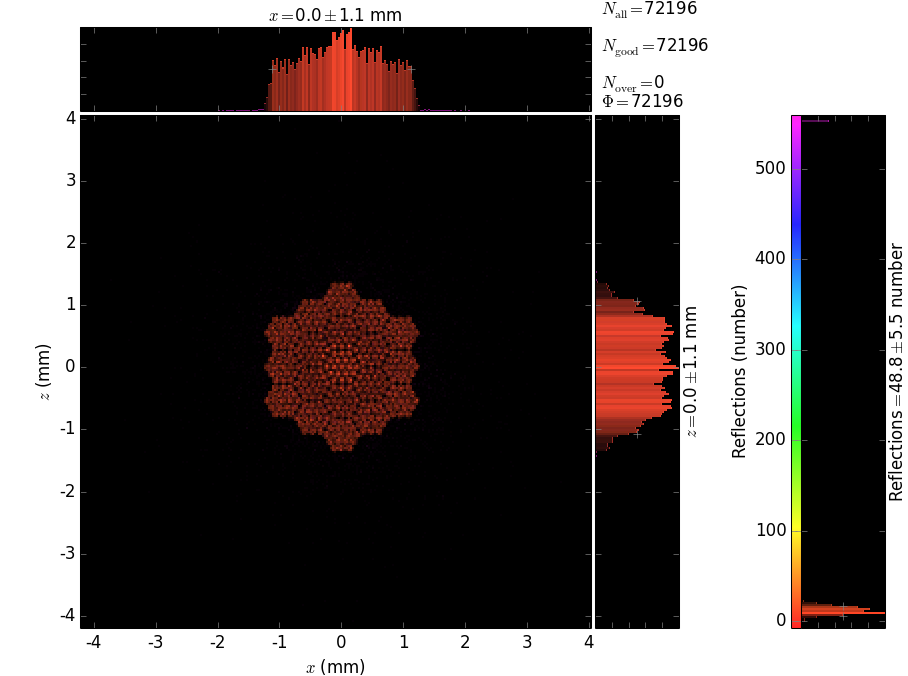
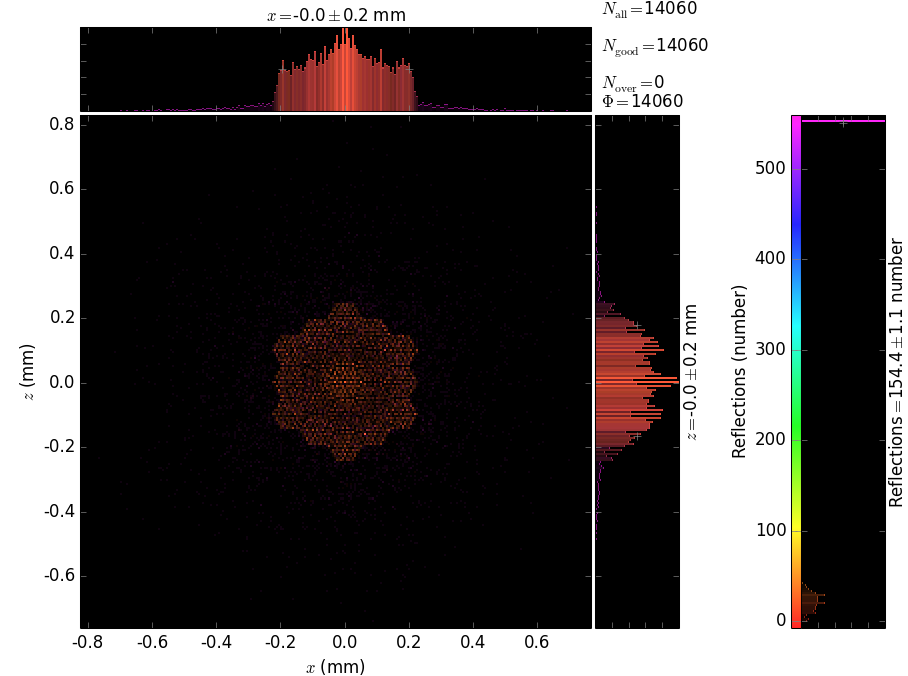
Add more pictures

diff --git a/examples/basic.py b/examples/basic.py
@@ -121,19 +121,20 @@ class MultipleCapillariesFittedSource(object):
         self.z_size = 1
 
         # Source divergence
-        self.x_divergence = 0.05
-        self.z_divergence = 0.05
+        self.x_divergence = 0.01
+        self.z_divergence = 0.01
 
         # Source energy parameters
         self.distE = 'normal'
         self.energies = (9000, 100)
 
         # Number of photons in one iteration of one thread
-        self.nrays = 100
+        self.nrays = 10
 
     def set_capillaries(self, caps):
         """ do it """
         self.capillaries = caps
+        print 'Number of capillaries: ', len(caps)
         radius = caps[0].entrance_radius()
         self.x_size = self.z_size = radius/2.0
 

diff --git a/main.py b/main.py
@@ -25,8 +25,8 @@ def create_lens():
     # This is used to control capillaries' curvature
     lens = lp.PolyCapillaryLens(y_settings=y_settings,\
                                 D_settings=D_settings)
-    structure = st.HexStructure(rIn = 0.11,\
-                                nx_capillary = 5,\
+    structure = st.HexStructure(rIn = 0.01,\
+                                nx_capillary = 7,\
                                 ny_bundle = 5)
     lens.set_structure(structure)
 
